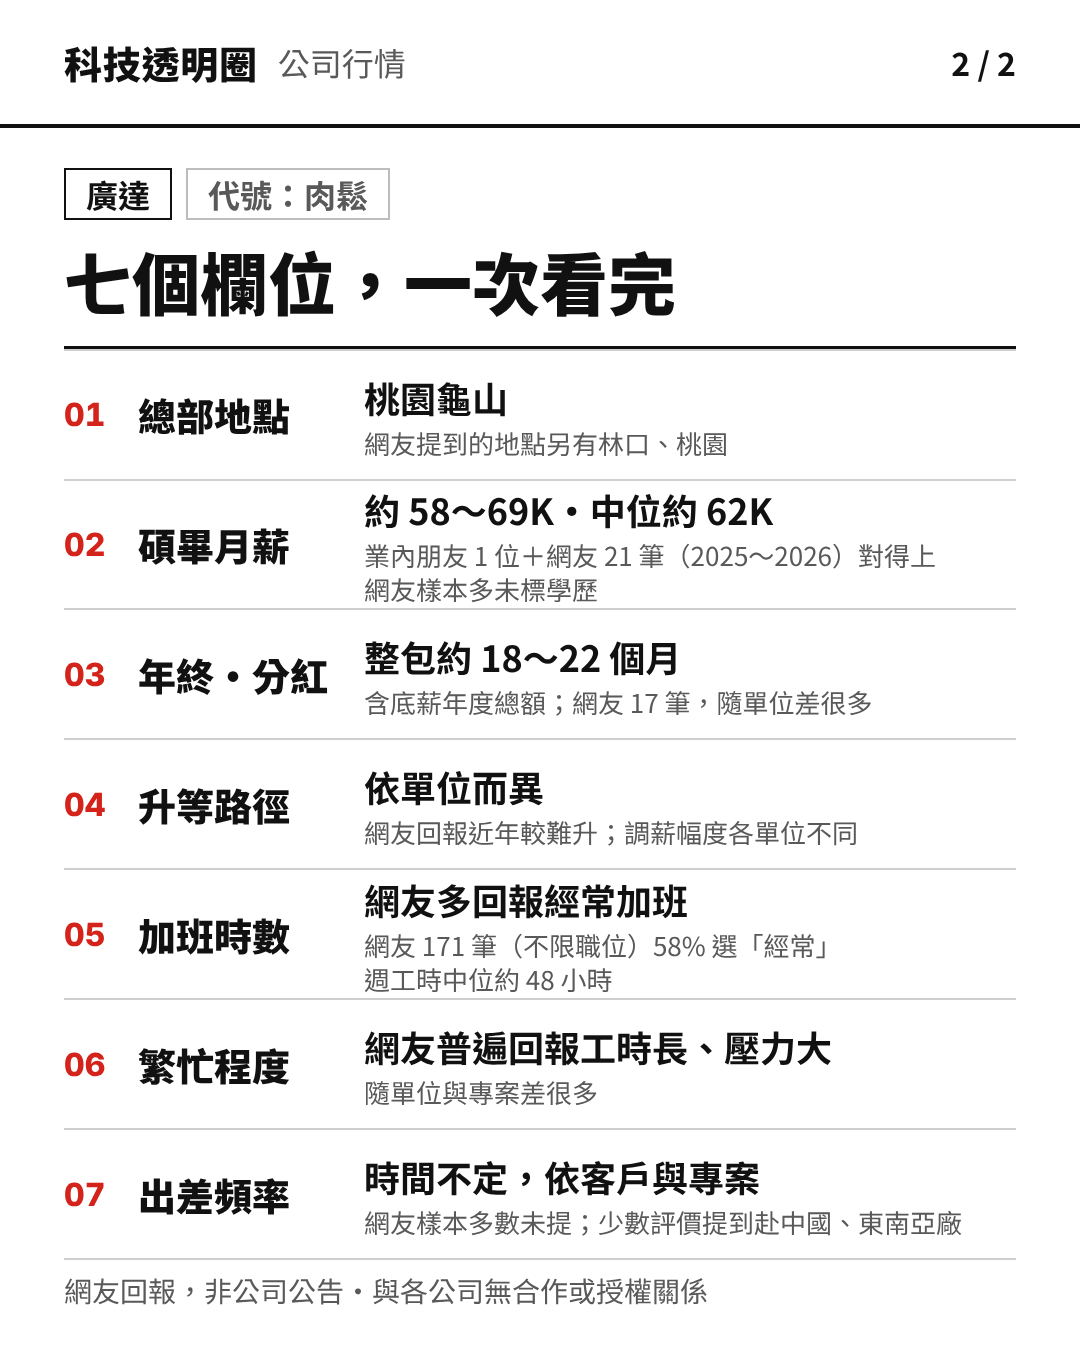
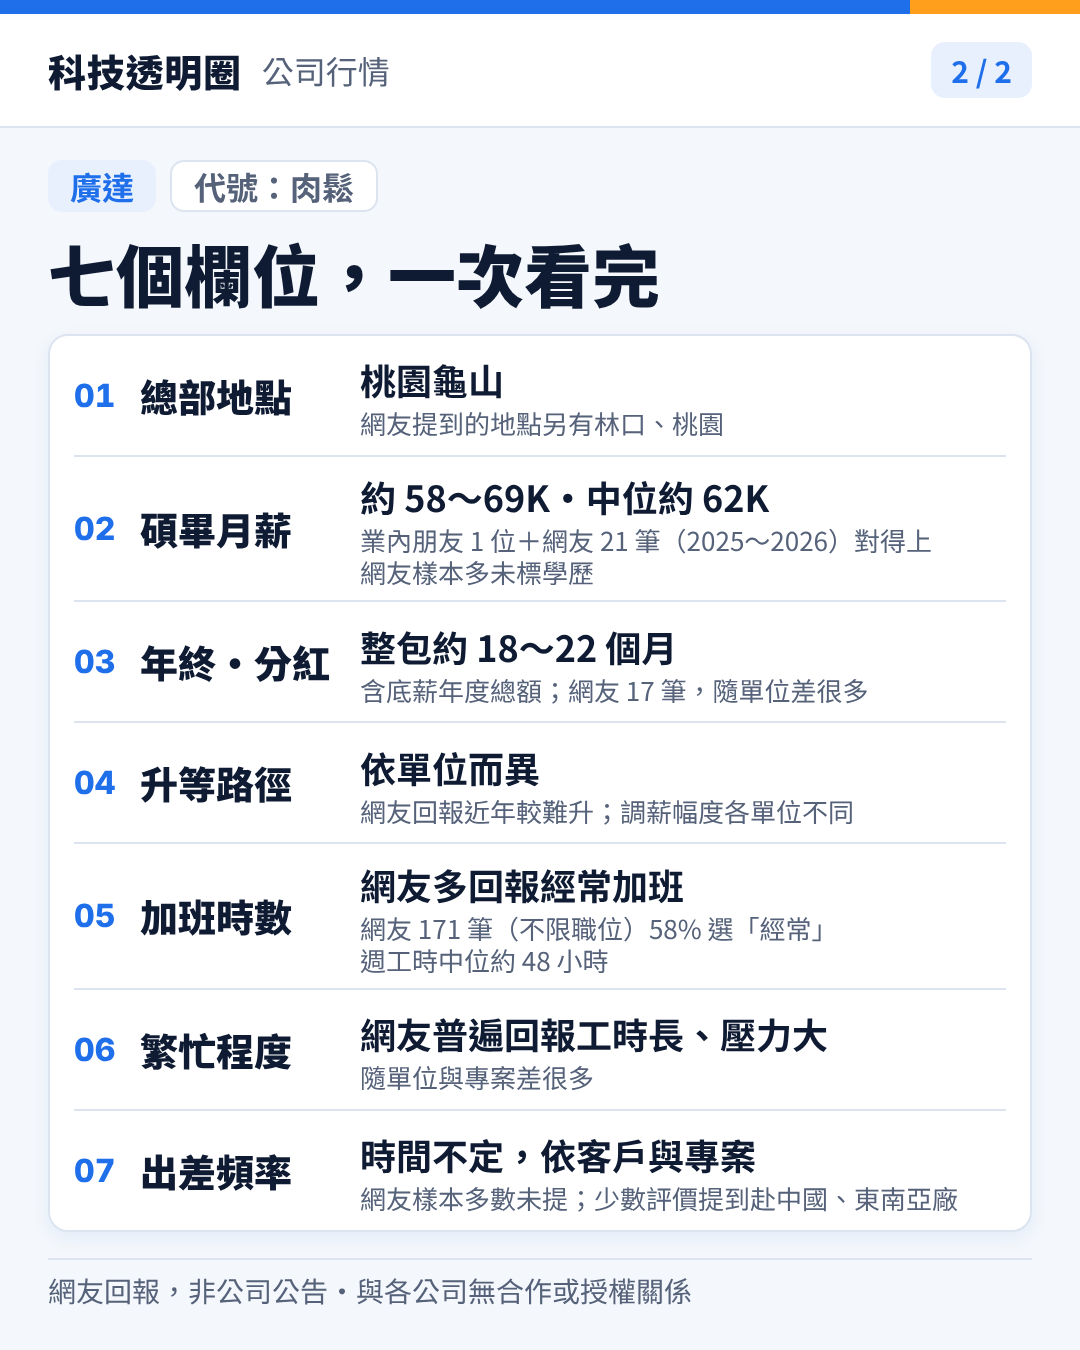
廣達待遇文改糖果陽光收斂版風格（文字不變；Andy 11-06：跟頭貼一樣、類似糖果陽光風，但不用那麼甜）
Claude-Session: https://claude.ai/code/session_018gakVRNRsek4G6osuECGNS

diff --git a/docs/marketing/channels/tc/posts/20261105_quanta/render_quanta.py b/docs/marketing/channels/tc/posts/20261105_quanta/render_quanta.py
@@ -1,7 +1,7 @@
-"""頻道二「科技透明圈」瑞士極簡版型套版範例（1080x1350）。
+"""頻道二「科技透明圈」糖果陽光（收斂版）套版範例（1080x1350）。
 用法（廣達待遇文，改自 docs/tc/assets/scripts/render_samples.py）：python render_quanta.py <素材根目錄 ASSETS> <輸出目錄 OUT>
 ASSETS 內要有 logos/、diagrams/、brand/icon_light.svg。字型 Noto Sans TC 由 TW_FONT_DIR（fontsource 解開的 package 目錄）提供。
-色票：白底、黑 #111111、瑞士紅 #D4231A、輔助灰 #595959、細線 #CFCFCF、淡灰面 #EFEFEF。
+色票（2026-11-06 Andy：跟頭貼一樣、類似糖果陽光風，但不用那麼甜）：頁底 #F4F7FB、卡片白、深藍黑 #0F1B33、LOGO 藍 #1F6FEB、LOGO 橘 #FF9F1C、淡藍 #E8F0FD、輔助灰 #55627A、細線 #DCE4F0。
 輸出每張 PNG 之後，用 DOM 量每個文字／圖片的外框，兩兩比對重疊（程式檢查），結果印出並寫 overlap_report.json。"""
 import base64, json, os, random, sys
 from pathlib import Path
@@ -10,7 +10,10 @@ from playwright.sync_api import sync_playwright
 ASSETS = Path(sys.argv[1]); OUT = Path(sys.argv[2]); OUT.mkdir(parents=True, exist_ok=True)
 FD = Path(os.environ.get("TW_FONT_DIR", ""))
 W, H = 1080, 1350
-INK, RED, GREY, LINE, PALE = "#111111", "#D4231A", "#595959", "#CFCFCF", "#EFEFEF"
+INK, BLUE, ORG, GREY, LINE, PALE = "#0F1B33", "#1F6FEB", "#FF9F1C", "#55627A", "#DCE4F0", "#E8EEF7"
+BG, TINT = "#F4F7FB", "#E8F0FD"   # 頁底很淡的藍灰；淡藍（標籤、提示塊）
+SHADOW = "0 6px 18px rgba(31,111,235,.08)"   # 柔和陰影（藍色低透明度）
+RAD = 20   # 卡片圓角；標籤／小塊用 14
 
 
 def b64(p):
@@ -21,28 +24,31 @@ def b64(p):
 FONTCSS = "".join(f'<link rel="stylesheet" href="file://{FD}/{w}.css">' for w in (400, 700, 900)) if FD.exists() else ""
 CSS = f"""
 *{{box-sizing:border-box;margin:0;padding:0}}
-body{{width:{W}px;height:{H}px;font-family:'Noto Sans TC','WenQuanYi Zen Hei',sans-serif;color:{INK};background:#fff;display:flex;flex-direction:column;overflow:hidden}}
+body{{width:{W}px;height:{H}px;font-family:'Noto Sans TC','WenQuanYi Zen Hei',sans-serif;color:{INK};background:{BG};display:flex;flex-direction:column;overflow:hidden}}
 .n{{font-family:Inter,'Noto Sans TC',sans-serif;font-weight:800;font-variant-numeric:tabular-nums}}
-.top{{height:128px;flex:none;padding:0 64px;display:flex;align-items:center;gap:20px;border-bottom:4px solid {INK}}}
+.strip{{position:absolute;left:0;top:0;width:{W}px;height:14px;background:{BLUE}}}
+.strip i{{position:absolute;right:0;top:0;width:170px;height:14px;background:{ORG}}}
+.top{{height:128px;flex:none;padding:14px 48px 0;display:flex;align-items:center;gap:20px;background:#fff;border-bottom:2px solid {LINE}}}
 .top .b{{font-size:38px;font-weight:900;letter-spacing:.02em}}
 .top .t{{font-size:32px;font-weight:400;color:{GREY}}}
-.top .p{{margin-left:auto;font-size:32px;font-weight:700}}
-.body{{padding:52px 64px 0;flex:1;display:flex;flex-direction:column;min-height:0}}
-.tag{{display:inline-flex;align-items:center;height:52px;padding:0 20px;font-size:32px;font-weight:700;border:2px solid {INK};white-space:nowrap}}
-.tag.g{{border-color:#BDBDBD;color:{GREY}}}
-.ft{{margin:auto 64px 40px;height:52px;border-top:2px solid {LINE};display:flex;align-items:flex-end;justify-content:space-between;flex:none}}
+.top .p{{margin-left:auto;font-size:30px;font-weight:700;color:{BLUE};background:{TINT};padding:6px 20px;border-radius:14px}}
+.body{{padding:52px 48px 0;flex:1;display:flex;flex-direction:column;min-height:0}}
+.tag{{display:inline-flex;align-items:center;height:52px;padding:0 22px;font-size:32px;font-weight:700;background:{TINT};color:{BLUE};border-radius:14px;white-space:nowrap}}
+.tag.g{{background:#fff;border:2px solid {LINE};color:{GREY}}}
+.ft{{margin:auto 48px 40px;height:52px;border-top:2px solid {LINE};display:flex;align-items:flex-end;justify-content:space-between;flex:none}}
 .ft span{{font-size:28px;color:{GREY};font-weight:400}}
 .lab{{font-size:32px;font-weight:700;color:{GREY}}}
-.ph{{border-bottom:4px solid {RED};font-weight:700;padding:0 4px;white-space:nowrap}}
-.callout{{border-left:12px solid {RED};background:#F4F4F4;padding:26px 34px}}
-.box{{border-top:3px solid {INK}}}
-.red{{color:{RED}}}
+.ph{{border-bottom:4px solid {ORG};font-weight:700;padding:0 4px;white-space:nowrap}}
+.card{{background:#fff;border:2px solid {LINE};border-radius:{RAD}px;box-shadow:{SHADOW}}}
+.callout{{background:{TINT};border-radius:18px;padding:26px 34px}}
+.box{{background:#fff;border:2px solid {LINE};border-radius:{RAD}px;box-shadow:{SHADOW};padding:0 24px}}
+.box>div:first-child{{border-top:0 !important}}
+.red{{color:{BLUE}}}
 """
 
 
 def top(label, pg):   # 統一決策：A/B/C 全系列頁首只放純文字「科技透明圈」，不放開口圈（A1 帶公司 LOGO，法遵 ② 不與開口圈組合；三系列一致才像同一頻道）
-    ic = ""   # 不放開口圈
-    return f'<div class="top">{ic}<div class="b">科技透明圈</div><div class="t">{label}</div><div class="p">{pg}</div></div>'
+    return f'<div class="strip"><i></i></div><div class="top"><div class="b">科技透明圈</div><div class="t">{label}</div><div class="p">{pg}</div></div>'
 
 
 def ft(left, right="示意・範例"):
@@ -77,14 +83,15 @@ def _hlogo():
 _LU, _LS = _hlogo()
 # ---- 封面版面常數（2026-11-04 Andy：LOGO 縮小靠左、拿掉圖上備註、排版整齊；A1／B1／C1 與時事範例 01～04 共用同一組數值）----
 M_L = 60                      # 左右邊界：LOGO、紅短線、標題、副標、「往右滑」右緣（W-60）同一條線
-BAR_H = 14                    # 頂紅條
+BAR_H = 14                    # 頂色條（藍底、右端橘塊 170px）
+PX = 24                       # 照片左右內縮（與 LOGO 左緣同線）、圓角 20
 LOGO_X = 24                   # LOGO 左緣（淡藍底塊左緣距畫布左緣；只管 LOGO，其餘仍用 M_L）
 LOGO_H = 48                   # 橫式 LOGO 高度（原 76）
 LOGO_PAD = 20                 # LOGO 上方（紅條下緣到 LOGO）與下方（LOGO 到照片）留白相等
 LOGO_TOP = BAR_H + LOGO_PAD   # 34
 PIC_TOP = LOGO_TOP + LOGO_H + LOGO_PAD   # 102：照片上緣（頂列總高 = 紅條 + 88）
 GAP = 56                      # 照片到紅短線、副標到頁底，兩段留白相等
-RL_H, RL_GAP, TT_H, SUB_GAP, SUB_H = 6, 24, 212, 0, 0   # 紅短線高、紅線到標題、標題兩行高（72px／106 行高，兩行分開的 div 字框不互疊）；廣達這篇沒有副標列（Andy 11-05：「下方只需要表示廣達行情」），提示併入標題第二行右側
+RL_H, RL_GAP, TT_H, SUB_GAP, SUB_H = 8, 24, 212, 0, 0   # 紅短線高、紅線到標題、標題兩行高（72px／106 行高，兩行分開的 div 字框不互疊）；廣達這篇沒有副標列（Andy 11-05：「下方只需要表示廣達行情」），提示併入標題第二行右側
 BELOW = GAP + RL_H + RL_GAP + TT_H + SUB_GAP + SUB_H + GAP   # 照片以下總高 386
 PIC_H = H - PIC_TOP - BELOW   # 862：拿掉備註後的空間全部給照片
 RL_TOP = PIC_TOP + PIC_H + GAP
@@ -93,16 +100,18 @@ SUB_TOP = TT_TOP + TT_H + SUB_GAP
 LOGO_W = round(LOGO_H * _LS[0] / _LS[1])
 OPEN_RING = f'<img data-b src="{_LU}" width="{LOGO_W}" height="{LOGO_H}" style="display:block">'
 COVER_CSS = f"""
-.cv{{position:absolute;left:0;top:0;width:{W}px;height:{H}px;background:#fff}}
-.cv .bar{{position:absolute;left:0;top:0;width:{W}px;height:{BAR_H}px;background:{RED}}}
+.cv{{position:absolute;left:0;top:0;width:{W}px;height:{H}px;background:{BG}}}
+.cv .hd{{position:absolute;left:0;top:0;width:{W}px;height:{PIC_TOP}px;background:#fff}}
 .cv .lg{{position:absolute;left:{LOGO_X}px;top:{LOGO_TOP}px;height:{LOGO_H}px}}
-.cv .pic{{position:absolute;left:0;top:{PIC_TOP}px;width:{W}px;height:{PIC_H}px;background-color:{PALE};background-size:cover;background-repeat:no-repeat}}
-.cv .rl{{position:absolute;left:{M_L}px;top:{RL_TOP}px;width:120px;height:{RL_H}px;background:{RED}}}
+.cv .pic{{position:absolute;left:{PX}px;top:{PIC_TOP}px;width:{W-2*PX}px;height:{PIC_H}px;border-radius:{RAD}px;box-shadow:{SHADOW};background-color:{PALE};background-size:cover;background-repeat:no-repeat}}
+.cv .rl{{position:absolute;left:{M_L}px;top:{RL_TOP}px;width:120px;height:{RL_H}px}}
+.cv .rl b{{position:absolute;left:0;top:0;width:88px;height:{RL_H}px;border-radius:4px;background:{BLUE}}}
+.cv .rl i{{position:absolute;left:100px;top:0;width:20px;height:{RL_H}px;border-radius:4px;background:{ORG}}}
 .cv .tt{{position:absolute;left:{M_L}px;top:{TT_TOP}px;width:{W-2*M_L}px;height:{TT_H}px;font-size:72px;font-weight:700;line-height:90px;color:{INK}}}
 .cv .row{{position:absolute;left:{M_L}px;top:{SUB_TOP}px;width:{W-2*M_L}px;height:{SUB_H}px;display:flex;justify-content:space-between;align-items:baseline;font-size:34px;line-height:{SUB_H}px;white-space:nowrap}}
 .cv .sub{{color:{GREY}}}
-.cv .hint{{font-weight:700;color:{RED}}}
-.cv .ph{{border-bottom:0;color:{RED};padding:0}}
+.cv .hint{{font-weight:700;color:{BLUE}}}
+.cv .ph{{border-bottom:0;color:{BLUE};padding:0}}
 """
 
 
@@ -115,9 +124,9 @@ def photo_uri(rel, box=None):
 
 def cover(title, sub, hint, photo, pos="50% 50%"):
     """封面不放任何署名／免責／商標句（Andy 11-04：下方備註不用，文案備註就好）；署名與免責寫進貼文文案，範本句見 README。"""
-    return (f'<div class="cv"><div class="bar"></div><div class="lg">{OPEN_RING}</div>'
+    return (f'<div class="cv"><div class="hd"></div><div class="strip"><i></i></div><div class="lg">{OPEN_RING}</div>'
             f'<div class="pic" data-b style="background-image:url({photo});background-position:{pos}"></div>'
-            f'<div class="rl"></div><div class="tt">{title}</div><div class="row"><div class="sub">{sub}</div><div class="hint">{hint}</div></div></div>')
+            f'<div class="rl"><b></b><i></i></div><div class="tt">{title}</div><div class="row"><div class="sub">{sub}</div><div class="hint">{hint}</div></div></div>')
 
 
 PH = lambda t: f'<span class="ph">{t}</span>'
@@ -127,10 +136,10 @@ DISC = "網友回報，非公司公告・與各公司無合作或授權關係"
 NAME = "廣達"
 S = {}
 # 2026-11-05 Andy：「下方只需要表示廣達行情 並且嘗試有點偷偷說的感覺標題」→ 兩行標題、第二行瑞士紅，提示與第二行基線對齊靠右；不放副標、不放表情符號
-S["1_cover"] = (f'<div class="cv"><div class="bar"></div><div class="lg">{OPEN_RING}</div>'
+S["1_cover"] = (f'<div class="cv"><div class="hd"></div><div class="strip"><i></i></div><div class="lg">{OPEN_RING}</div>'
     f'<div class="pic" data-b style="background-image:url({photo_uri("quanta/photo_12.jpg", (0, 130, 1920, 1440))});background-position:10% 50%"></div>'
-    f'<div class="rl"></div><div class="tt" style="line-height:106px"><div>噓，偷偷跟你說</div>'
-    f'<div style="display:flex;justify-content:space-between;align-items:baseline"><span style="color:{RED};font-weight:900">{NAME}行情</span>'
+    f'<div class="rl"><b></b><i></i></div><div class="tt" style="line-height:106px"><div>噓，偷偷跟你說</div>'
+    f'<div style="display:flex;justify-content:space-between;align-items:baseline"><span style="color:{BLUE};font-weight:900">{NAME}行情</span>'
     f'<span class="hint" style="font-size:34px;line-height:44px;white-space:nowrap">往右滑看行情 →</span></div></div></div>')
 rows = [
     ("總部地點", "桃園龜山", "網友提到的地點另有林口、桃園"),
@@ -141,16 +150,16 @@ rows = [
     ("繁忙程度", "網友普遍回報工時長、壓力大", "隨單位與專案差很多"),
     ("出差頻率", "時間不定，依客戶與專案", "網友樣本多數未提；少數評價提到赴中國、東南亞廠"),
 ]
-trs = "".join(f'<div class="rw" style="display:flex;align-items:center;flex:1;border-top:2px solid {LINE}">'
-              f'<div class="n" style="width:74px;font-size:32px;color:{RED}">{i+1:02d}</div>'
-              f'<div style="width:226px;font-size:38px;font-weight:800;white-space:nowrap">{a}</div>'
-              f'<div style="flex:1;min-width:0"><div style="font-size:36px;font-weight:700;line-height:54px;white-space:nowrap">{b}</div>'
-              f'<div style="font-size:26px;line-height:34px;color:{GREY};margin-top:2px">{c}</div></div></div>' for i, (a, b, c) in enumerate(rows))
+trs = "".join(f'<div class="rw" style="display:flex;align-items:center;flex:{1.2 if "<br>" in c else 1};border-top:2px solid {LINE}">'
+              f'<div class="n" style="width:66px;font-size:32px;color:{BLUE}">{i+1:02d}</div>'
+              f'<div style="width:220px;font-size:38px;font-weight:800;white-space:nowrap">{a}</div>'
+              f'<div style="flex:1;min-width:0"><div style="font-size:36px;font-weight:700;line-height:56px;white-space:nowrap">{b}</div>'
+              f'<div style="font-size:26px;line-height:32px;color:{GREY};margin-top:0">{c}</div></div></div>' for i, (a, b, c) in enumerate(rows))
 S["2_fields"] = f"""{top('公司行情', '2 / 2')}
-<div class="body" style="padding-top:40px">
+<div class="body" style="padding-top:32px">
   <div style="display:flex;gap:14px"><span class="tag">{NAME}</span><span class="tag g">代號：肉鬆</span></div>
   <div style="font-size:68px;font-weight:900;line-height:1.2;margin-top:20px">七個欄位，一次看完</div>
-  <div class="box" style="margin-top:24px;flex:1;display:flex;flex-direction:column;min-height:0">{trs}</div>
+  <div class="box" style="margin-top:20px;margin-bottom:26px;flex:1;display:flex;flex-direction:column;min-height:0">{trs}</div>
 </div>{ft(DISC, "")}"""
 
 # ---------------- 轉圖 + 重疊檢查 ----------------
